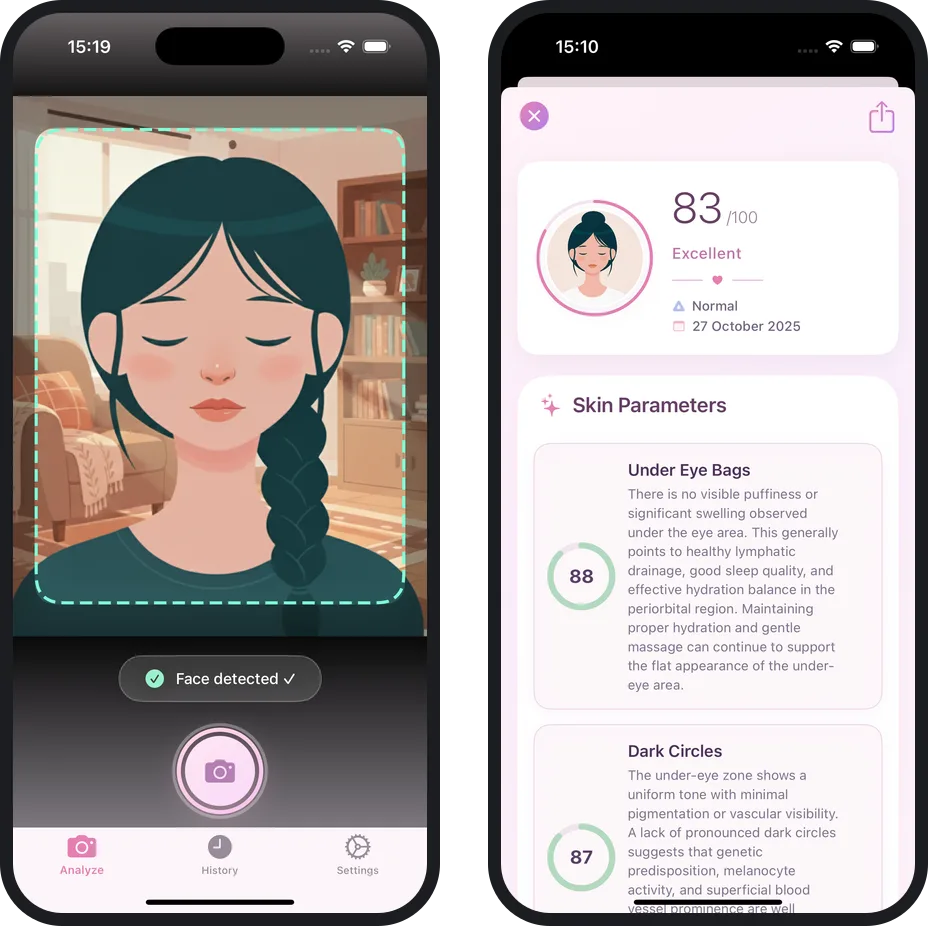
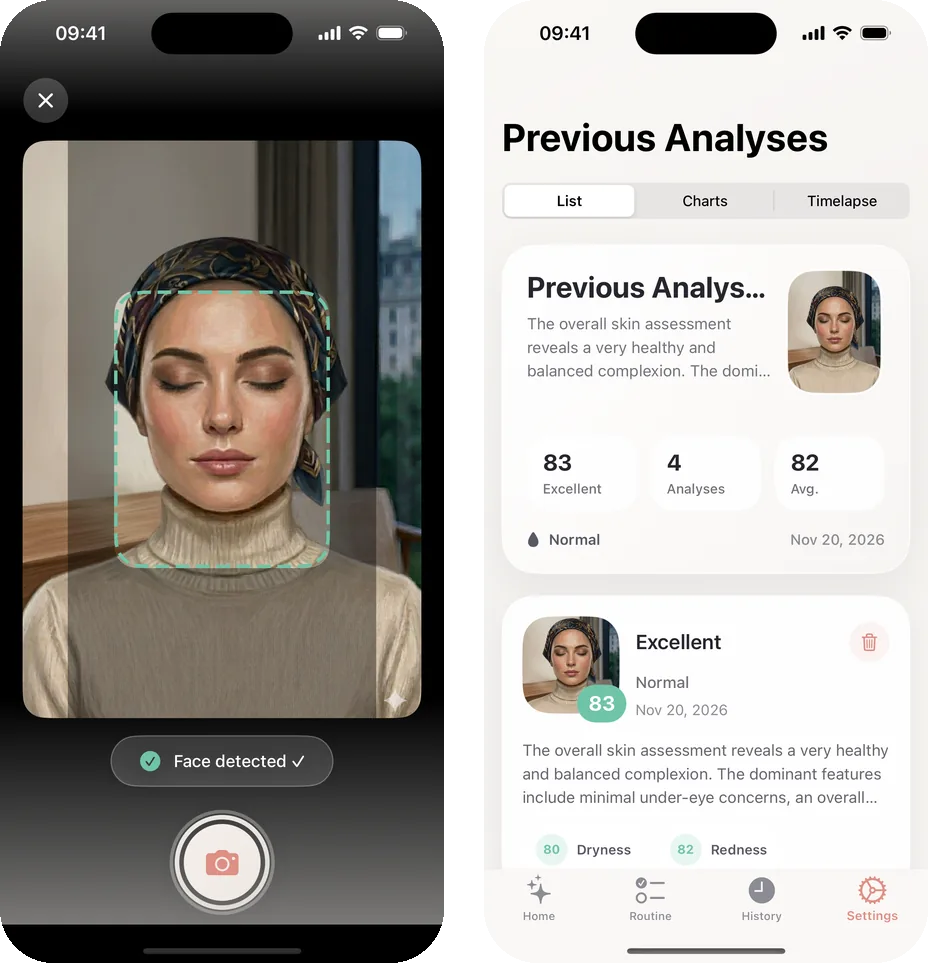
feat: yeni uygulama ekran görüntüleri, sade gizlilik bölümü, GitHub Pages adresi
- Uygulamanın son halinden çekilen ekranlarla screens-4/screens-2 ve ana sayfa görseli
- Eski ekran görüntüleri (img/*-400/640, ss/) silindi
- Gizlilik bölümü kısaltıldı
- Sayfalara GitHub Pages canonical ve og:url adresi eklendi

diff --git a/index.html b/index.html
@@ -8,12 +8,13 @@
 <meta property="og:type" content="website">
 <meta property="og:title" content="FaceGlow: AI skin analysis app for iPhone">
 <meta property="og:description" content="Ten skin signals scored from one selfie, with every scan saved for comparison.">
-<meta property="og:image" content="share.jpg">
+<meta property="og:image" content="https://busenursahin.github.io/skin-analyzer-web/share.jpg">
+<meta property="og:url" content="https://busenursahin.github.io/skin-analyzer-web/">
+<link rel="canonical" href="https://busenursahin.github.io/skin-analyzer-web/">
 <meta name="twitter:card" content="summary_large_image">
 <link rel="icon" href="favicon.png" type="image/png">
 <link rel="apple-touch-icon" href="img/apple-touch-icon.png">
 <meta name="theme-color" content="#f7f9f8">
-<!-- <link rel="canonical" href="https://[the client's domain]/"> -->
 <meta name="site-kind" content="software">
 <meta name="page-type" content="software">
 <link rel="preconnect" href="https://fonts.googleapis.com">
@@ -161,7 +162,7 @@
               <a href="#languages">Languages<span>Results in 19 languages</span></a>
             </div>
             <a class="menu-card span-3 start-10" href="#app">
-              <div class="panel"><img class="frame__img" src="img/results-400.webp" alt="The FaceGlow score card showing 83 out of 100" style="object-position: top"></div>
+              <div class="panel"><img class="frame__img" src="img/home-400.webp" srcset="img/home-400.webp 400w, img/home-640.webp 640w" sizes="(max-width: 639px) 80vw, 400px" alt="The FaceGlow home screen with the last skin score, 83 out of 100" style="object-position: top"></div>
               <span class="t-card">The score card</span>
               <span class="t-small muted">See all four screens</span>
             </a>
@@ -220,12 +221,12 @@
     <div class="wrap">
       <div class="grid grid--top">
         <h2 class="span-5" id="app-h">The FaceGlow app in 4 screens</h2>
-        <p class="span-6 start-7 t-lead">Frame your face inside the guide, wait while each signal is read, open the score card, and find every past scan under History. <a class="link" href="#signals">See what each score covers</a></p>
+        <p class="span-6 start-7 t-lead">Frame your face inside the guide, see your latest score on the home screen, find every past scan under History, and keep your daily skincare routine. <a class="link" href="#signals">See what each score covers</a></p>
       </div>
       <div class="frame frame--lit screens fill">
         <picture>
           <source media="(max-width: 639px)" srcset="img/screens-2.webp">
-          <img src="img/screens-4.webp" width="2376" height="1110" alt="Four FaceGlow screens: the camera with a face guide, the analysis in progress, the score card and the list of past scans" loading="lazy" data-source="client" data-subject="FaceGlow app screens">
+          <img src="img/screens-4.webp" width="2376" height="1223" alt="Four FaceGlow screens: the camera with a face guide, the home screen with the last score, the list of past scans and the daily skincare routine" loading="lazy" data-source="client" data-subject="FaceGlow app screens">
         </picture>
       </div>
     </div>
@@ -337,17 +338,12 @@
     <div class="wrap">
       <div class="grid grid--top fill">
         <div class="span-5 stack-4">
-          <h2 id="privacy-h">Your skin scans carry no name or email</h2>
-          <p class="t-lead">FaceGlow needs no account. Each scan is kept under a random ID, and your photos are never used to train AI.</p>
-          <ul class="facts">
-            <li>No sign-up, no email, no phone number</li>
-            <li>Photos go to our AI system with storage turned off</li>
-            <li>Scans deleted on request by email</li>
-          </ul>
+          <h2 id="privacy-h">Your data is safe with FaceGlow</h2>
+          <p class="t-lead">We never link your scans to you. Photos are kept only for your AI skin analysis.</p>
           <p><a class="link" href="privacy-policy.html">Read the privacy policy</a></p>
         </div>
         <div class="frame frame--split frame--fill frame--lit span-6 start-7">
-          <div class="dg" data-diagram data-dg-still><script type="application/json">{"layout": "lanes", "alt": "A selfie goes to FaceGlow, which sends the result to your phone, keeps a copy under a random ID and asks our AI system with storage turned off.", "input": {"label": "Selfie", "icon": "ui:camera", "sub": "One photo"}, "core": {"label": "FaceGlow"}, "lanes": [{"label": "Your result", "icon": "ui:smartphone", "done": true, "sub": "10 scores"}, {"label": "Random ID", "icon": "ui:lock", "done": true, "sub": "No name"}, {"label": "AI system", "icon": "ui:sparkles", "done": true, "sub": "Storage off"}]}</script></div>
+          <div class="dg" data-diagram data-dg-still><script type="application/json">{"layout": "lanes", "alt": "A selfie goes to FaceGlow, which returns your result, keeps the scan without your name and uses it only for the AI analysis.", "input": {"label": "Selfie", "icon": "ui:camera", "sub": "One photo"}, "core": {"label": "FaceGlow"}, "lanes": [{"label": "Your result", "icon": "ui:smartphone", "done": true, "sub": "10 scores"}, {"label": "Not linked", "icon": "ui:lock", "done": true, "sub": "No name"}, {"label": "AI analysis", "icon": "ui:sparkles", "done": true, "sub": "Only use"}]}</script></div>
         </div>
       </div>
     </div>

diff --git a/skin-quiz.html b/skin-quiz.html
@@ -8,7 +8,9 @@
 <meta property="og:type" content="website">
 <meta property="og:title" content="FaceGlow: skin type quiz in 10 questions">
 <meta property="og:description" content="Answer 10 quick questions and get an estimate of your skin type, with one routine tip for it. Free, in your browser.">
-<meta property="og:image" content="share.jpg">
+<meta property="og:image" content="https://busenursahin.github.io/skin-analyzer-web/share.jpg">
+<meta property="og:url" content="https://busenursahin.github.io/skin-analyzer-web/skin-quiz.html">
+<link rel="canonical" href="https://busenursahin.github.io/skin-analyzer-web/skin-quiz.html">
 <meta name="twitter:card" content="summary_large_image">
 <link rel="icon" href="favicon.png" type="image/png">
 <link rel="apple-touch-icon" href="img/apple-touch-icon.png">

diff --git a/terms-of-use.html b/terms-of-use.html
@@ -8,7 +8,9 @@
 <meta property="og:type" content="website">
 <meta property="og:title" content="FaceGlow: terms of use">
 <meta property="og:description" content="The terms for using the FaceGlow skin analysis app for iPhone, including subscriptions and the medical disclaimer.">
-<meta property="og:image" content="share.jpg">
+<meta property="og:image" content="https://busenursahin.github.io/skin-analyzer-web/share.jpg">
+<meta property="og:url" content="https://busenursahin.github.io/skin-analyzer-web/terms-of-use.html">
+<link rel="canonical" href="https://busenursahin.github.io/skin-analyzer-web/terms-of-use.html">
 <meta name="twitter:card" content="summary_large_image">
 <link rel="icon" href="favicon.png" type="image/png">
 <link rel="apple-touch-icon" href="img/apple-touch-icon.png">

diff --git a/privacy-policy.html b/privacy-policy.html
@@ -8,7 +8,9 @@
 <meta property="og:type" content="website">
 <meta property="og:title" content="FaceGlow: privacy policy">
 <meta property="og:description" content="What the FaceGlow skin analysis app collects, why, and how it stays unlinked to your identity.">
-<meta property="og:image" content="share.jpg">
+<meta property="og:image" content="https://busenursahin.github.io/skin-analyzer-web/share.jpg">
+<meta property="og:url" content="https://busenursahin.github.io/skin-analyzer-web/privacy-policy.html">
+<link rel="canonical" href="https://busenursahin.github.io/skin-analyzer-web/privacy-policy.html">
 <meta name="twitter:card" content="summary_large_image">
 <link rel="icon" href="favicon.png" type="image/png">
 <link rel="apple-touch-icon" href="img/apple-touch-icon.png">

diff --git a/CLAUDE.md b/CLAUDE.md
@@ -6,6 +6,8 @@ This file provides guidance to Claude Code (claude.ai/code) when working with co
 
 The static website for **FaceGlow – AI Skin Scanner** (iOS app). It is plain HTML, CSS and JS with no build step and no framework. The App Store listing links to the privacy and terms pages, so their URLs must not change.
 
+Live at **https://busenursahin.github.io/skin-analyzer-web/** (GitHub Pages, built from `main`; `.nojekyll` keeps GitHub from running Jekyll). The App Store listing and the RevenueCat paywall link to `…/privacy-policy.html` and `…/terms-of-use.html` there; each page's `canonical` and `og:url` point to that address. A Vercel copy existed and is being retired.
+
 Pages:
 - `index.html`: the landing page. A hero with a live HTML result card, real app screenshots (`img/screens-*.webp`), features, a privacy diagram, FAQ and footer.
 - `skin-quiz.html`: a 10-question skin-type quiz. It scores in the browser. `localStorage` is wrapped in try/catch, and the page never uses `alert()`.
@@ -38,4 +40,6 @@ If the API starts collecting something new, update the policy in the same change
 
 ## Leftovers
 
-`styles.css`, `logo.jpg` and `ss/` belong to the old design and are no longer referenced. They can be deleted.
+`styles.css` and `logo.jpg` belong to the old design and are no longer referenced. They can be deleted.
+
+App screenshots: `img/screens-4.webp` (desktop) and `img/screens-2.webp` (phone) are built from `../SkinAnalyzerAI/screenshots/app-latest/` (rounded screens on a transparent background); `img/home-400/640.webp` is the home screen.
